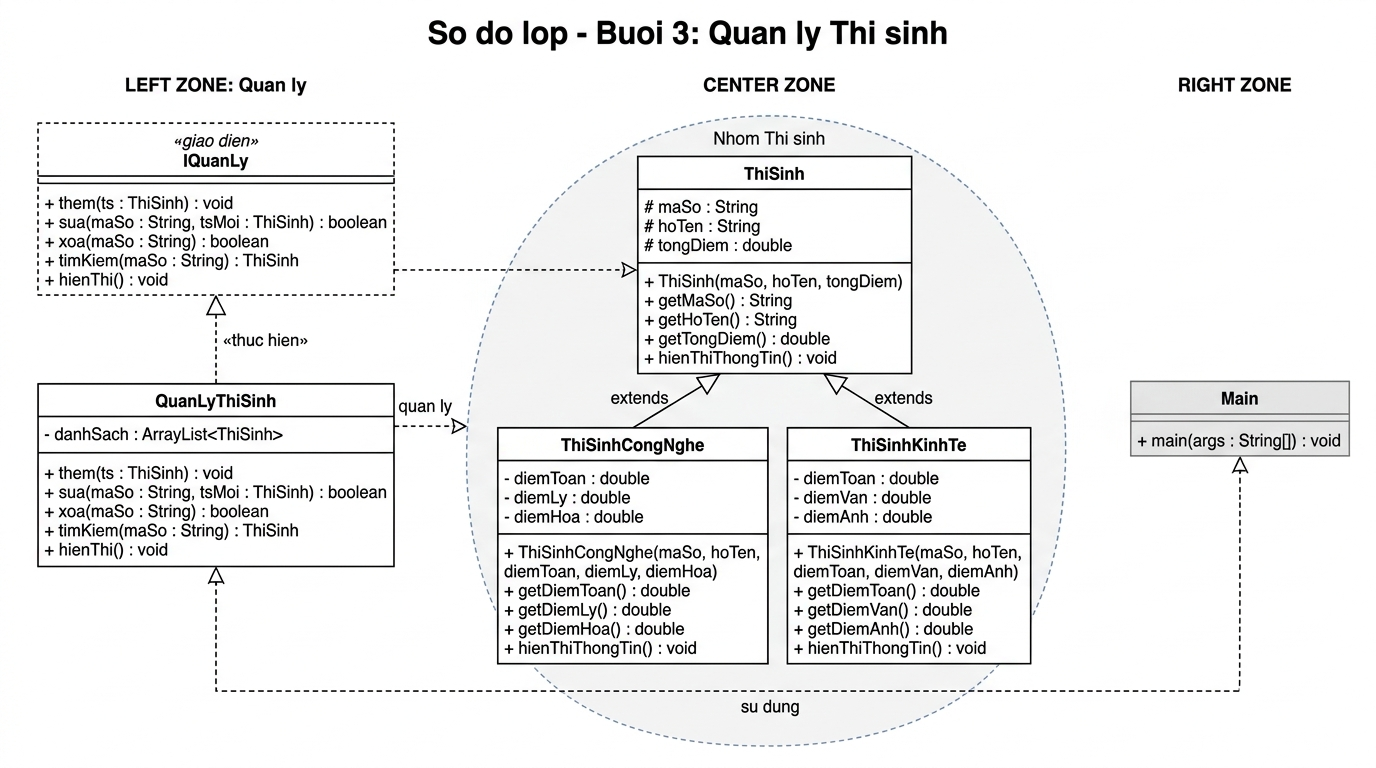
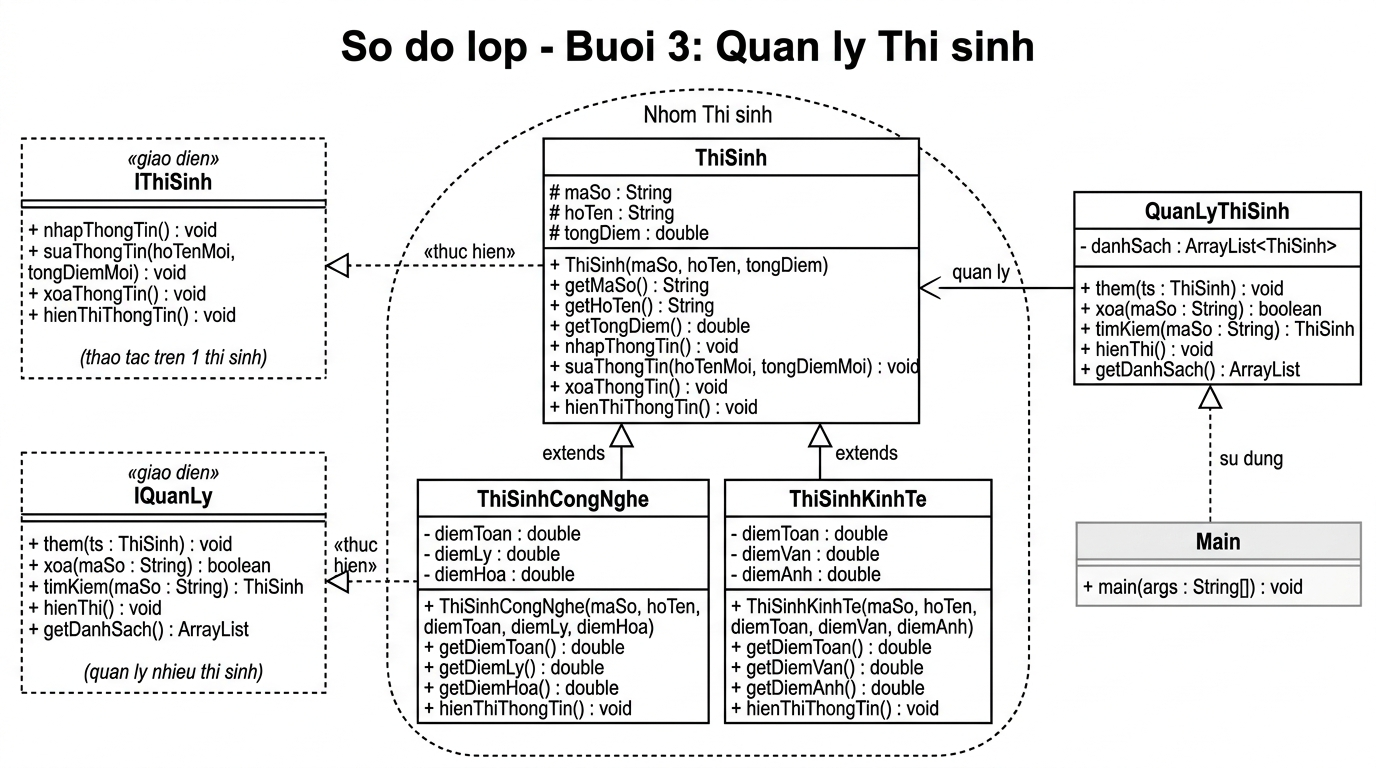
Buoi3: Tach IThiSinh (1 thi sinh) va IQuanLy (nhieu thi sinh) + update SoDoLop

diff --git a/BaiTaptheobuoi/Buoi3/IQuanLy.java b/BaiTaptheobuoi/Buoi3/IQuanLy.java
@@ -1,10 +1,10 @@
 import java.util.ArrayList;
 
-
+// Giao dien quan ly NHIEU thi sinh (danh sach)
 public interface IQuanLy {
-    void them(ThiSinh ts);          
-    boolean sua(String maSo, ThiSinh tsMoi); 
-    boolean xoa(String maSo);       
-    ThiSinh timKiem(String maSo);   
-    void hienThi();                  
+    void them(ThiSinh ts);                   // Them vao danh sach
+    boolean xoa(String maSo);               // Xoa khoi danh sach
+    ThiSinh timKiem(String maSo);           // Tim kiem trong danh sach
+    void hienThi();                          // Hien thi tat ca
+    ArrayList<ThiSinh> getDanhSach();        // Lay danh sach
 }

diff --git a/BaiTaptheobuoi/Buoi7/Buoi7.java b/BaiTaptheobuoi/Buoi7/Buoi7.java
@@ -15,7 +15,7 @@ public class Buoi7 {
             try {
                 double d = Double.parseDouble(sc.nextLine().trim());
                 if (d < 0 || d > 10) {
-                    System.out.println("   >> LOI: Diem " + tenMon.trim() + " phai tu 0 den 10! Nhap lai.");
+                    System.out.println("   >> LOI: Diem " + tenMon.trim() + "  Nhap lai.");
                 } else {
                     return d;
                 }

diff --git a/BaiTaptheobuoi/Buoi3/IThiSinh.java b/BaiTaptheobuoi/Buoi3/IThiSinh.java
@@ -1,0 +1,7 @@
+// Giao dien thao tac tren MOT thi sinh
+public interface IThiSinh {
+    void nhapThongTin();           // Them (nhap) thong tin
+    void suaThongTin(String hoTenMoi, double tongDiemMoi); // Sua thong tin
+    void xoaThongTin();            // Xoa (reset) thong tin
+    void hienThiThongTin();        // Hien thi thong tin
+}
